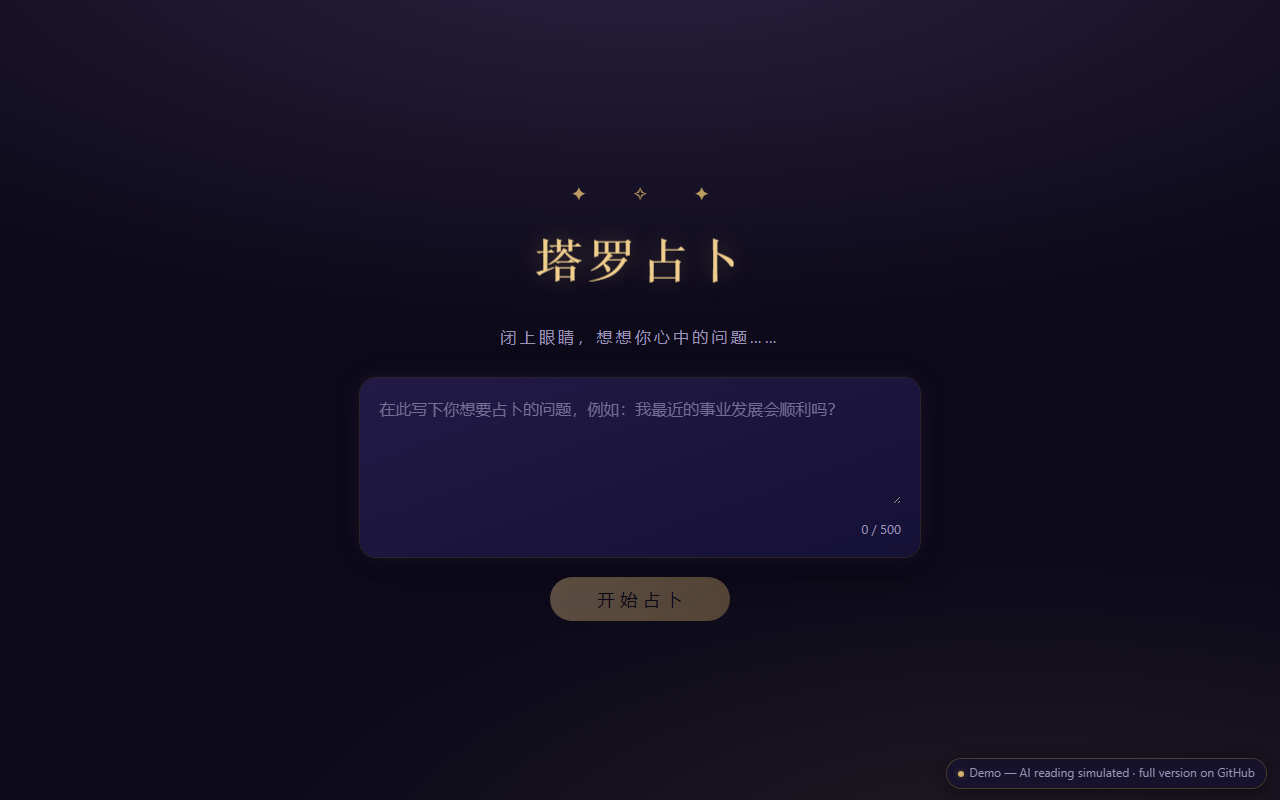
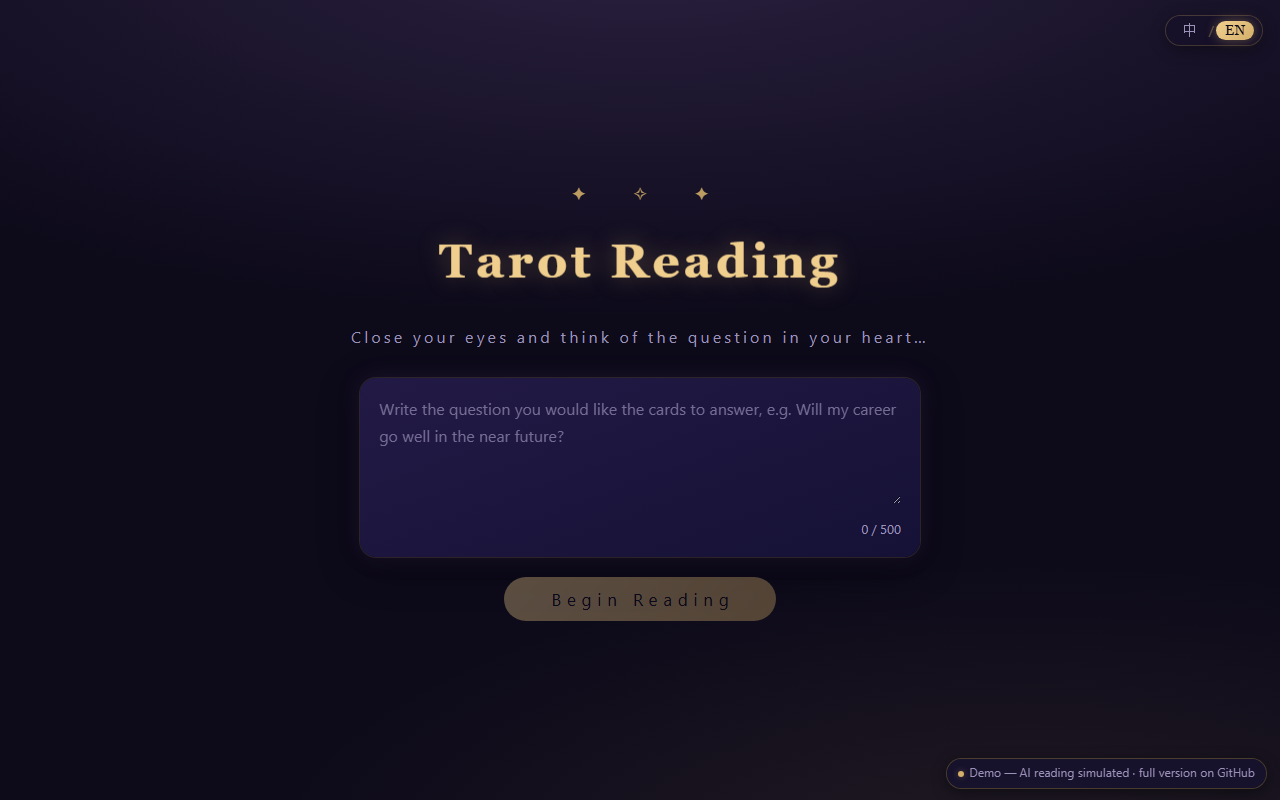
Update tarot demo to the bilingual redesigned build
- Sync public/demos/tarot/ with the app's EN/中文 language-switch release
  (mock reading templates now bilingual, English default)
- Refresh preview fallback screenshot to the new visual design
- Note the language toggle in the demo footnote

diff --git a/public/demos/tarot/index.html b/public/demos/tarot/index.html
@@ -5,8 +5,8 @@
     <link rel="icon" type="image/svg+xml" href="/demos/tarot/favicon.svg" />
     <meta name="viewport" content="width=device-width, initial-scale=1.0" />
     <title>塔罗占卜</title>
-    <script type="module" crossorigin src="/demos/tarot/assets/index-Bxge6gVI.js"></script>
-    <link rel="stylesheet" crossorigin href="/demos/tarot/assets/index-DtTmQ4AX.css">
+    <script type="module" crossorigin src="/demos/tarot/assets/index-CbWdNYyU.js"></script>
+    <link rel="stylesheet" crossorigin href="/demos/tarot/assets/index-BihYDx4g.css">
   </head>
   <body>
     <div id="root"></div>

diff --git a/public/demos/tarot/assets/index-BihYDx4g.css b/public/demos/tarot/assets/index-BihYDx4g.css
@@ -1,0 +1,1 @@
+:root{--bg-deep:#0d0a1a;--bg-mid:#171230;--bg-card:#1e1840;--gold:#d4af6a;--gold-bright:#f0cf8e;--gold-dim:#d4af6a59;--purple:#7b5ea7;--purple-soft:#a68fd0;--text-main:#ece5f5;--text-dim:#9c92b8;--danger:#d76a6a;--serif:Georgia, "Times New Roman", "STSong", "SimSun", serif;--sans:system-ui, "Segoe UI", "Microsoft YaHei", sans-serif;--lightningcss-light: ;--lightningcss-dark:initial;color-scheme:dark;font-family:var(--sans);color:var(--text-main)}*{box-sizing:border-box;margin:0;padding:0}html,body{min-height:100%}body{background:radial-gradient(ellipse 80% 50% at 50% -10%, #7b5ea747, transparent), radial-gradient(ellipse 60% 40% at 80% 110%, #d4af6a1a, transparent), var(--bg-deep);color:var(--text-main);font-family:var(--sans);-webkit-font-smoothing:antialiased;background-attachment:fixed;line-height:1.6}#root{min-height:100vh}h1,h2,h3{font-family:var(--serif);letter-spacing:.08em;font-weight:600}button{cursor:pointer;font-family:inherit}button:disabled{cursor:not-allowed}.app{text-align:center;flex-direction:column;justify-content:center;align-items:center;gap:.75rem;min-height:100vh;padding:2rem;display:flex}.app h1{color:var(--gold-bright);text-shadow:0 0 24px #d4af6a59;font-size:3rem}.subtitle{color:var(--text-dim);letter-spacing:.3em}.backend-status{color:var(--purple-soft);margin-top:1.5rem;font-size:.85rem}.float-text{animation:3.2s ease-in-out infinite float-text;display:inline-block}@keyframes float-text{0%,to{transform:translateY(0)}50%{transform:translateY(-4px)}}@media (prefers-reduced-motion:reduce){.float-text{animation:none}}.demo-badge{z-index:50;letter-spacing:.02em;color:var(--text-dim);-webkit-backdrop-filter:blur(6px);backdrop-filter:blur(6px);pointer-events:none;-webkit-user-select:none;user-select:none;background:#171230d1;border-radius:999px;align-items:center;gap:.45em;padding:.32rem .7rem;font-size:.72rem;display:flex;position:fixed;bottom:12px;right:14px;box-shadow:0 0 0 1px #d4af6a47,0 4px 16px #00000073}.demo-badge-dot{background:var(--gold);width:6px;height:6px;box-shadow:0 0 6px var(--gold-dim);border-radius:50%;flex:none}@media (width<=600px){.demo-badge{font-size:.66rem;bottom:8px;right:8px}}.lang-switch{z-index:100;-webkit-backdrop-filter:blur(6px);backdrop-filter:blur(6px);background:#140e288c;border-radius:999px;align-items:center;gap:.15rem;padding:.25rem .5rem;display:flex;position:fixed;top:1rem;right:1.1rem;box-shadow:0 0 0 1px #d4af6a40,0 4px 16px #0006}.lang-switch-btn{color:var(--text-dim);font-size:.85rem;font-family:var(--serif);letter-spacing:.05em;background:0 0;border:none;border-radius:999px;padding:.15rem .55rem;transition:color .2s,background .2s,box-shadow .2s}.lang-switch-btn:hover{color:var(--gold-bright)}.lang-switch-btn--active{color:var(--bg-deep);background:linear-gradient(135deg, var(--gold-bright), var(--gold));box-shadow:0 0 12px #d4af6a66}.lang-switch-sep{color:#d4af6a66;font-size:.8rem}.sparkle-layer{pointer-events:none;z-index:80;position:fixed;inset:0}.sparkle-dot{background:radial-gradient(circle,#f0cf8e 0%,#d4af6a 45%,#7b5ea799 75%,#0000 100%);border-radius:50%;width:7px;height:7px;margin:-3.5px 0 0 -3.5px;animation:.65s ease-out forwards sparkle-fade;position:absolute;box-shadow:0 0 8px #f0cf8ecc,0 0 18px #7b5ea780}@keyframes sparkle-fade{0%{opacity:.9;transform:scale(.4)}35%{opacity:1;transform:scale(1.15)}to{opacity:0;transform:scale(.2)translateY(-16px)}}@media (prefers-reduced-motion:reduce){.sparkle-layer{display:none}}.ring-viewport{perspective:1150px;perspective-origin:50% 38%;cursor:grab;touch-action:pan-y;-webkit-user-select:none;user-select:none;width:100%;height:clamp(300px,46vh,460px);position:relative;overflow:hidden}.ring-viewport:active{cursor:grabbing}.ring{width:100%;height:100%;transform-style:preserve-3d;will-change:transform;position:relative}.ring-card-anchor{width:74px;height:120px;transform-style:preserve-3d;margin:-60px 0 0 -37px;position:absolute;top:50%;left:50%}.ring-card{cursor:pointer;width:100%;height:100%;animation:ring-float var(--float-dur) ease-in-out var(--float-delay) infinite;background:0 0;border:none;padding:0;transition:opacity .3s;position:relative}@keyframes ring-float{0%,to{transform:translateY(0)rotate(0)}50%{transform:translateY(var(--float-amp)) rotate(var(--float-rot))}}.ring-card-img{object-fit:cover;pointer-events:none;-webkit-user-select:none;user-select:none;opacity:.5;filter:drop-shadow(0 6px 14px #0000008c);border-radius:8px;width:100%;height:100%;transition:filter .2s,transform .2s,opacity .2s;display:block}.ring-card:hover:not(.ring-card--locked):not(.ring-card--taken) .ring-card-img{opacity:.75;filter:drop-shadow(0 0 14px #d4af6a99)drop-shadow(0 6px 14px #00000080);transform:scale(1.08)}.ring-card--taken,.ring-card--lifting{opacity:0;pointer-events:none;animation-play-state:paused}.ring-card--locked{opacity:.25;pointer-events:none;animation-play-state:paused}.ring-card-ghost{object-fit:cover;opacity:.85;pointer-events:none;z-index:70;filter:drop-shadow(0 0 20px #d4af6a8c)drop-shadow(0 10px 24px #0009);border-radius:10px;width:96px;height:156px;margin:-78px 0 0 -48px;position:fixed;top:0;left:0}@media (prefers-reduced-motion:reduce){.ring-card{animation:none}}.slots{flex-wrap:wrap;justify-content:center;gap:1.75rem;display:flex}.slot{flex-direction:column;align-items:center;gap:.6rem;display:flex}.slot-label{color:var(--purple-soft);letter-spacing:.3em;padding-left:.3em;font-size:.85rem}.slot:first-child .slot-label{animation-delay:0s}.slot:nth-child(2) .slot-label{animation-delay:.4s}.slot:nth-child(3) .slot-label{animation-delay:.8s}.slot:nth-child(4) .slot-label{animation-delay:1.2s}.slot-empty,.slot-card-wrap{width:92px}.slot-empty{color:#d4af6a66;height:148px;font-family:var(--serif);background:radial-gradient(circle at 50% 38%,#7b5ea733,#120e2873);border-radius:10px;justify-content:center;align-items:center;font-size:1.6rem;display:flex;box-shadow:inset 0 0 0 1px #d4af6a29,inset 0 2px 10px #00000059}.slot-card-wrap{flex-direction:column;align-items:center;gap:.5rem;display:flex}.slot-card{cursor:grab;touch-action:none;-webkit-user-select:none;user-select:none;border-radius:10px;width:92px;height:148px}.slot-card:active{cursor:grabbing}.slot-card-img{object-fit:cover;pointer-events:none;-webkit-user-select:none;user-select:none;opacity:.5;filter:drop-shadow(0 4px 16px #7b5ea766)drop-shadow(0 0 10px #d4af6a38);border-radius:10px;width:100%;height:100%;display:block}.slot-remove{color:#d76a6ad9;background:#140e28a6;border:none;border-radius:50%;width:22px;height:22px;font-size:.7rem;line-height:1;transition:all .2s;box-shadow:0 0 0 1px #d76a6a47,0 2px 6px #0006}.slot-remove:hover{color:var(--danger);box-shadow:0 0 0 1px #d76a6a99,0 0 10px #d76a6a59}@media (prefers-reduced-motion:reduce){.slot-label{animation:none}}.selection-page{flex-direction:column;gap:.75rem;min-height:100vh;padding:1.25rem 1rem 2rem;display:flex}.selection-header{text-align:center}.selection-question{color:var(--text-dim);white-space:nowrap;text-overflow:ellipsis;max-width:640px;margin:0 auto;font-size:.9rem;overflow:hidden}.selection-hint{color:var(--gold);letter-spacing:.12em;margin-top:.35rem;font-size:.95rem}.selection-status{height:clamp(300px,46vh,460px);color:var(--text-dim);letter-spacing:.2em;flex-direction:column;justify-content:center;align-items:center;gap:1rem;display:flex}.selection-status--error{color:var(--danger);letter-spacing:normal}.selection-spinner{border:2px solid var(--gold-dim);border-top-color:var(--gold-bright);border-radius:50%;width:34px;height:34px;animation:.9s linear infinite spin}@keyframes spin{to{transform:rotate(360deg)}}.retry-button{color:var(--gold);letter-spacing:.2em;background:#140e2880;border:none;border-radius:999px;padding:.4rem 1.6rem .4rem calc(1.6rem + .2em);transition:all .2s;box-shadow:0 0 0 1px #d4af6a40}.retry-button:hover{color:var(--gold-bright);box-shadow:0 0 0 1px #f0cf8e99,0 0 16px #d4af6a59}.selection-footer{justify-content:center;align-items:center;min-height:56px;display:flex}.slots-drop-zone{border-radius:20px;padding:.75rem 1rem;transition:box-shadow .2s,background .2s}.slots-drop-zone--hover{background:#d4af6a14;box-shadow:0 0 0 1px #d4af6a66,0 0 30px #d4af6a40}.question-page{text-align:center;flex-direction:column;justify-content:center;align-items:center;gap:1.25rem;min-height:100vh;padding:2rem;display:flex}.question-stars{color:var(--gold);letter-spacing:1.2em;padding-left:1.2em;font-size:1.1rem;animation:3s ease-in-out infinite twinkle}@keyframes twinkle{0%,to{opacity:.5}50%{opacity:1}}.question-title{color:var(--gold-bright);text-shadow:0 0 24px #d4af6a59;font-size:3rem}.question-guide{color:var(--text-dim);letter-spacing:.2em;margin-bottom:.5rem}.question-panel{background:linear-gradient(160deg,#2b2158b3,#17123ad9);border-radius:16px;width:min(560px,90vw);padding:1.1rem 1.2rem;box-shadow:0 0 0 1px #d4af6a24,0 0 24px #7b5ea729,0 10px 40px #00000073}.question-textarea{resize:vertical;width:100%;min-height:96px;color:var(--text-main);background:0 0;border:none;outline:none;font-family:inherit;font-size:1rem;line-height:1.7}.question-textarea::placeholder{color:var(--text-dim);opacity:.7}.question-counter{text-align:right;color:var(--text-dim);margin-top:.5rem;font-size:.8rem}.primary-button{letter-spacing:.35em;color:var(--bg-deep);background:linear-gradient(135deg, var(--gold-bright), var(--gold));border:none;border-radius:999px;padding:.7rem 2.6rem .7rem calc(2.6rem + .35em);font-size:1.05rem;transition:transform .2s,box-shadow .2s,opacity .2s;box-shadow:0 4px 20px #d4af6a59}.primary-button:hover:not(:disabled){transform:translateY(-2px);box-shadow:0 6px 28px #d4af6a80}.primary-button:disabled{opacity:.35;box-shadow:none}.reading-page{flex-direction:column;align-items:center;gap:1.5rem;min-height:100vh;padding:2rem 1rem 3rem;display:flex}.reading-status{min-height:60vh;color:var(--text-dim);letter-spacing:.2em;flex-direction:column;justify-content:center;align-items:center;gap:1.2rem;display:flex}.reading-status--error{color:var(--danger);letter-spacing:normal;font-size:1.05rem}.reading-spinner{border:2px solid var(--gold-dim);border-top-color:var(--gold-bright);border-radius:50%;width:34px;height:34px;animation:.9s linear infinite spin}.reading-question{color:var(--text-dim);white-space:nowrap;text-overflow:ellipsis;max-width:640px;font-size:.9rem;overflow:hidden}.reveal-grid{grid-template-columns:repeat(4,minmax(180px,230px));justify-content:center;gap:1.2rem;display:grid}@media (width<=900px){.reveal-grid{grid-template-columns:repeat(2,minmax(160px,1fr));width:100%;max-width:560px}}.reveal-slot{flex-direction:column;align-items:center;gap:.6rem;display:flex}.reveal-position{color:var(--purple-soft);letter-spacing:.35em;padding-left:.35em;font-size:.9rem}.reveal-slot:first-child .reveal-position{animation-delay:0s}.reveal-slot:nth-child(2) .reveal-position{animation-delay:.4s}.reveal-slot:nth-child(3) .reveal-position{animation-delay:.8s}.reveal-slot:nth-child(4) .reveal-position{animation-delay:1.2s}.flip-card{perspective:900px;width:100%;height:300px}.flip-inner{width:100%;height:100%;transform-style:preserve-3d;transition:transform .8s cubic-bezier(.35,.1,.25,1);position:relative}.flip-card--revealed .flip-inner{transform:rotateY(180deg)}.flip-face{backface-visibility:hidden;border-radius:12px;flex-direction:column;display:flex;position:absolute;inset:0}.flip-back{padding:0;overflow:hidden}.flip-back-img{object-fit:cover;filter:drop-shadow(0 10px 26px #0000008c);border-radius:12px;width:100%;height:100%;display:block}.flip-front{background:linear-gradient(170deg,#251d4f 0%,#1b1540 100%);gap:.6rem;padding:1rem;transform:rotateY(180deg);box-shadow:0 0 0 1px #d4af6a29,0 0 26px #d4af6a29,0 10px 28px #00000080}.flip-card-header{justify-content:space-between;align-items:baseline;padding-bottom:.5rem;display:flex;position:relative}.flip-card-header:after{content:"";background:linear-gradient(90deg,#0000,#d4af6a66,#0000);height:1px;position:absolute;bottom:0;left:0;right:0}.flip-card-name{font-family:var(--serif);color:var(--gold-bright);letter-spacing:.1em;font-size:1.15rem}.flip-card-orientation{color:var(--bg-deep);background:linear-gradient(135deg, var(--gold-bright), var(--gold));white-space:nowrap;border-radius:999px;padding:.1rem .6rem;font-size:.75rem;font-weight:600}.flip-card-orientation--reversed{color:var(--text-main);background:linear-gradient(135deg, var(--purple-soft), var(--purple))}.flip-card-meaning{color:var(--text-main);font-size:.83rem;line-height:1.75;overflow-y:auto}.reading-section{flex-direction:column;gap:1rem;width:min(760px,94vw);animation:.8s fade-in;display:flex}@keyframes fade-in{0%{opacity:0;transform:translateY(12px)}to{opacity:1;transform:none}}.reading-title{text-align:center;color:var(--gold-bright);letter-spacing:.4em;padding-left:.4em;font-size:1.35rem}.reading-title:before,.reading-title:after{content:" ✦ ";color:var(--gold-dim);font-size:.9rem}.reading-text{color:var(--text-main);white-space:pre-wrap;background:#1e18408c;border-radius:12px;min-height:120px;padding:1.4rem 1.6rem;font-size:.95rem;line-height:2;box-shadow:0 0 0 1px #7b5ea733,0 10px 30px #0006}.reading-cursor{background:var(--gold-bright);vertical-align:text-bottom;width:2px;height:1.1em;margin-left:2px;animation:.9s steps(2,end) infinite blink;display:inline-block}@keyframes blink{to{opacity:0}}.reading-footer{justify-content:center;padding-top:.5rem;display:flex}